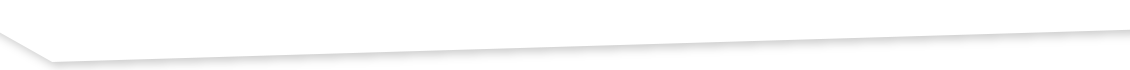
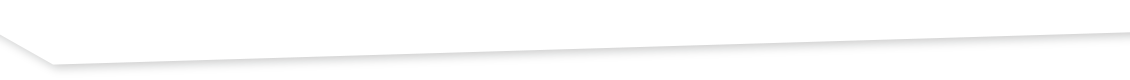
Updated Slider and Overlay CSS

Changed region(s): [[0.031, 0.4, 1.0, 0.9429]]

diff --git a/themes/bardaccess/style.css b/themes/bardaccess/style.css
@@ -76,18 +76,18 @@ License URI: http://www.gnu.org/licenses/gpl-2.0.html http://www.apache.org/lice
 		color:rgb(00,150,160);
 	}
 
-.top-bar {
-	background:#fff;
-	height: auto;
-		padding-left: 0.9375rem;
-		padding-right: 0.9375rem;
-}
+	.top-bar {
+		background:#fff;
+		height: auto;
+			padding-left: 0.9375rem;
+			padding-right: 0.9375rem;
+	}
 
-.top-bar .row {
-	max-width:72.5rem;
-	max-height: 40px;
-	height: 40px;
-}
+	.top-bar .row {
+		max-width:72.5rem;
+		max-height: 40px;
+		height: 40px;
+	}
 
 	ul.title-area .name h1 a{
 		color:#333;
@@ -154,28 +154,11 @@ License URI: http://www.gnu.org/licenses/gpl-2.0.html http://www.apache.org/lice
 
 /* 
  * Homepage
-
-
-.slider-overlay-1 {
-height: 40px;
-border-bottom: 3px solid #999;
-border-right: 4px solid #999;
-transform: skew(-87deg);
-background: #FFF none repeat scroll 0% 0%;
-}
-
-.slider-overlay-2 {
-height: 70px;
-transform: skew(88deg);
-background: rgb(255, 255, 255) none repeat scroll 0% 0%;
-border-right: 4px solid rgb(51, 51, 51);
-border-bottom: 3px solid #333;
-}
  */
 
 .slider-overlay {
 	background: url('includes/sample-data/slider-overlay.png') transparent;
-	height: 70px;
+	height: 80px;
 	position: relative;
     margin-top: -13px;
     z-index: 1;
@@ -191,7 +174,7 @@ border-bottom: 3px solid #333;
 }
 
 	.homepage-slider .owl-wrapper-outer {
-		margin-top: -70px;
+		margin-top: -80px;
 	}
 
 #featured-content .owl-wrapper-outer {
@@ -225,10 +208,14 @@ border-bottom: 3px solid #333;
 	 * Featured Areas
 	 */ 
 
-	 	/* Featured Boxes */
 		 .featured-boxes {
 		 	margin-bottom: 1.8125rem;
 		 }
+
+		.featured-content-caption {
+			margin-top: -125px;
+			padding: 5%;
+		}
 
 /* 
  * Custom Pages

diff --git a/themes/bardaccess/framework/bas/extensions/ShortCodesController.php b/themes/bardaccess/framework/bas/extensions/ShortCodesController.php
@@ -713,9 +713,15 @@ if ( !function_exists('bas_add_featured_content') ) {
 	            while ( $feat_slider_query->have_posts() ) : $feat_slider_query->the_post();
 					?>
 					<div class="item">
-						<?php if ( has_post_thumbnail() ) {
-							the_post_thumbnail('full');
-						} ?>
+						<div class="featured-content-img">
+							<?php if ( has_post_thumbnail() ) {
+								the_post_thumbnail('full');
+							} ?>
+						</div>
+						<div class="featured-content-caption">
+							<h3><?php the_title(); ?></h3>
+							<h4><?php the_content(); ?></h4>
+						</div>
 					</div>
 					<?php
 	            endwhile; // end of the loop 

diff --git a/themes/bardaccess/footer.php b/themes/bardaccess/footer.php
@@ -28,7 +28,7 @@
 			    margin:10,
 			    singleItem:true,
 			    navigation:false,
-			    pagination:false,
+			   // pagination:false,
 			    autoPlay: true,
 			    rewindSpeed: 1,
 			    slideSpeed: 200,
